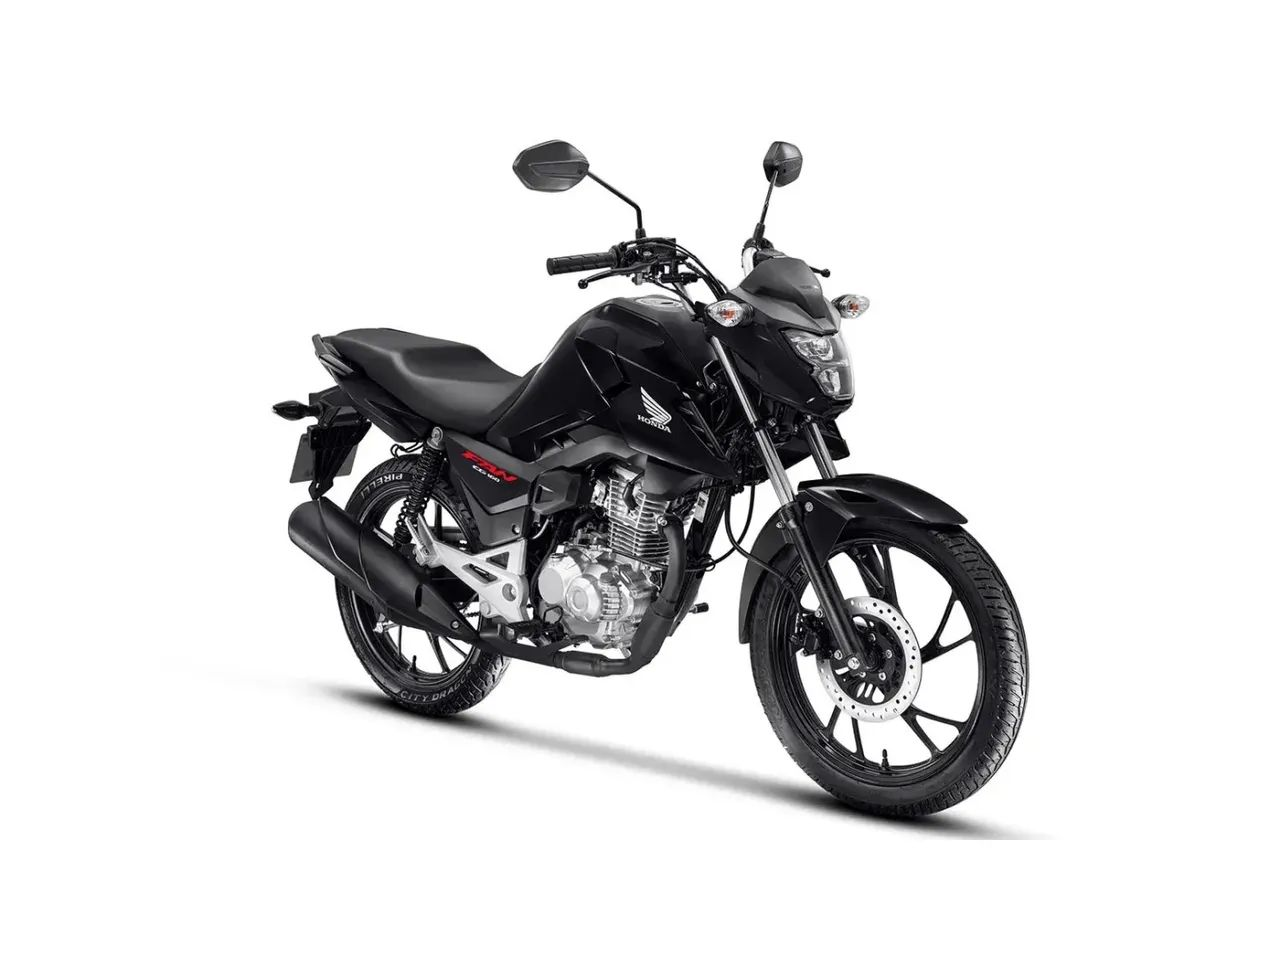
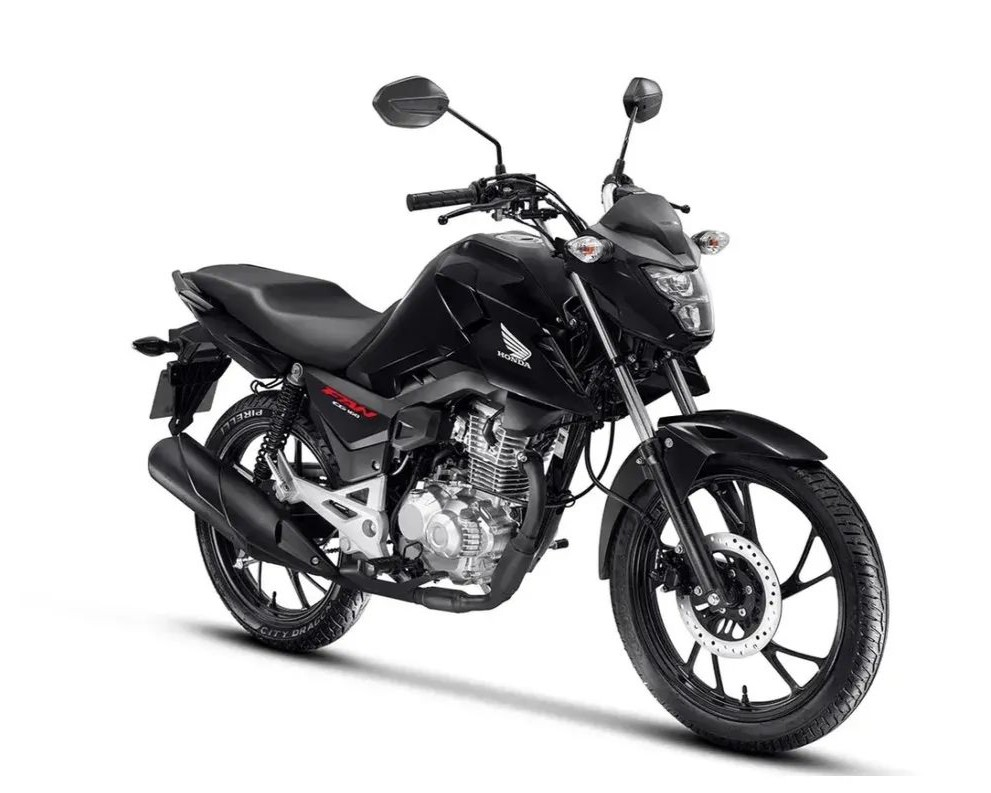
adicionando modelos, padronizando tamanho de imagens

Changed region(s): [[0.1211, 0.0908, 0.9082, 0.9987]]

diff --git a/site/index.html b/site/index.html
@@ -41,7 +41,7 @@
          <h1 class="divisoria">MOTOS (city)</h1>
         <div class="conteiner">
             <img src="../images/pop110.jpg" alt="">
-            <img src="../images/elite125.jpg" alt="">
+            <img src="../images/elite.jpg" alt="">
             <img src="../images/bizes.jpg" alt="">
             <img src="../images/bizex.jpg" alt="">
             <img src="../images/start.jpeg" alt="">
@@ -63,6 +63,11 @@
             <img src="../images/cb500x.jpg" alt="">
             <img src="../images/cb650r.webp" alt="">
             <img src="../images/cbr650r.jpg" alt="">
+            <img src="../images/nc750.jpg" alt="">
+            <img src="../images/xadv.jpg" alt="">
+            <img src="../images/cb1000r.jpg" alt="">
+            <img src="../images/fireblade.jpg" alt="">
+            <img src="../images/africa twin.jpg" alt="">
         </div>
     </section>
 </body>
